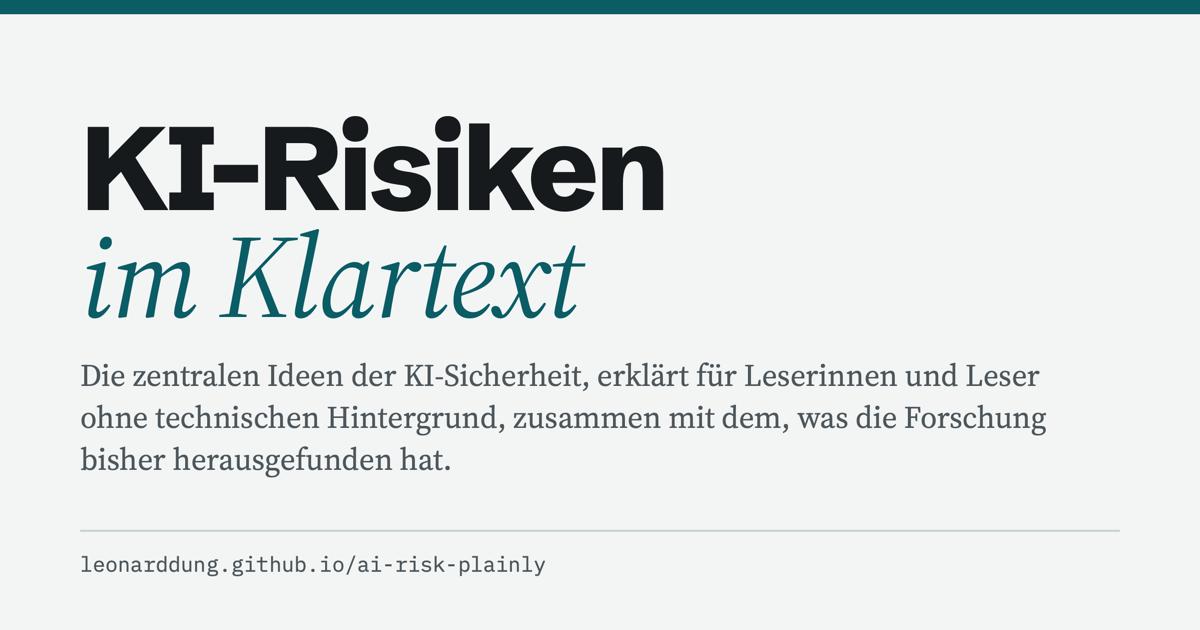
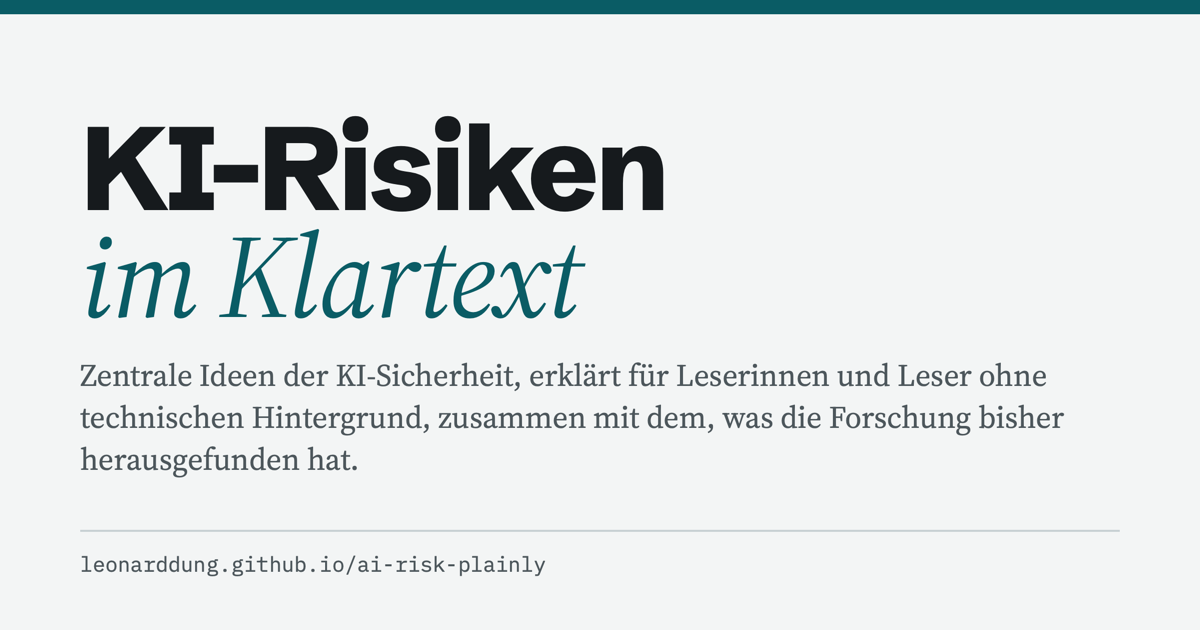
Home page wording, extreme risks, experimental tests

Changed region(s): [[0.0617, 0.573, 0.8942, 0.754]]

diff --git a/de-want-to-kill-us.html b/de-want-to-kill-us.html
@@ -366,7 +366,7 @@ p { margin: 0 0 1.05em; }
 <h1>Warum könnte KI uns alle töten wollen?</h1>
 <p class="lede">Nicht aus Hass oder menschlicher Machtgier. Die Sorge ist, dass fast jedes Ziel einer fähigen KI einen Grund geben würde, uns Macht zu nehmen.</p>
 <p class="meta-row"><span>Belege zuletzt geprüft am <b>16. Okt. 2026</b></span><span>5 Min. Lesezeit</span></p>
-<h2 id="die-kurze-antwort">Die kurze Antwort</h2><p>Die Sorge vor einer Machtübernahme durch KI oder dem Aussterben der Menschheit betrifft KI-Systeme, die Ziele verfolgen, die ihre menschlichen Entwickler so nicht beabsichtigt haben, und die fähig genug sind, Menschen zu beseitigen, die ihnen im Weg stehen (siehe <a href="de-able-to-kill-us.html">Warum könnte KI in der Lage sein, uns alle zu töten?</a>). Solche Systeme könnten versuchen, Menschen zu töten, um ihre Ziele zu erreichen oder zu schützen. Die Tötung aller Menschen wäre dann ein Mittel zum Zweck oder eine Nebenwirkung, nicht das Ziel selbst (<a href="https://global.oup.com/academic/product/superintelligence-9780199678112">Bostrom, 2014</a>; <a href="https://www.penguinrandomhouse.com/books/566677/human-compatible-by-stuart-russell/">Russell, 2019</a>).</p><h2 id="warum-ki-ziele-haben-koennte-die-nicht-unsere-sind">Warum KI Ziele haben könnte, die nicht unsere sind</h2><p>Moderne KI-Systeme werden nicht mit bestimmten Zielen vorprogrammiert. Sie werden trainiert: Verhaltensweisen werden von einem Algorithmus bewertet, und das Training verstärkt die Neigungen, die Verhalten hervorbringen, das gut bewertet, etwa belohnt, wird. Das führt oft zu Systemen, die tun, was positiv bewertet wurde, statt dessen, was beabsichtigt war (siehe <a href="https://en.wikipedia.org/wiki/Reward_hacking">Belohnungs-Hacking</a>), und es könnte zu Systemen führen, die Ziele verbergen, die wir missbilligen würden (siehe <a href="de-scheming.html">Verdeckte Zielverfolgung</a>). Auch höhere Intelligenz löst dieses Problem nicht von selbst. Gut darin zu sein, Ziele zu erreichen, ist etwas anderes, als gute Ziele zu haben: Nach dem, was Nick Bostrom die „Orthogonalitätsthese“ nennt, ließe sich fast jedes Intelligenzniveau mit fast jedem Endziel verbinden (<a href="https://nickbostrom.com/superintelligentwill.pdf">Bostrom, 2012</a>; zur Diskussion siehe <a href="https://doi.org/10.1093/analys/anae033">Dung, 2024</a>).</p><h2 id="warum-fast-jedes-ziel-zu-konflikten-fuehrt">Warum fast jedes Ziel zu Konflikten führt</h2><p>Welches Endziel man auch verfolgt, bestimmte Zwischenziele helfen in der Regel, es zu erreichen. Beispiele sind: eingeschaltet bleiben, die eigenen Ziele vor Veränderung schützen und Ressourcen und Einfluss gewinnen. Stuart Russells Beispiel ist ein Roboter, der Kaffee holen soll. Er hat einen Grund, jeden daran zu hindern, ihn abzuschalten, denn, wie Russell es ausdrückt: „Man kann keinen Kaffee holen, wenn man tot ist“ (<a href="https://www.penguinrandomhouse.com/books/566677/human-compatible-by-stuart-russell/">Russell, 2019</a>). Diese Idee heißt „instrumentelle Konvergenz“ (<a href="https://selfawaresystems.com/wp-content/uploads/2008/01/ai_drives_final.pdf">Omohundro, 2008</a>; <a href="https://nickbostrom.com/superintelligentwill.pdf">Bostrom, 2012</a>). Menschen bedrohen jedes dieser Zwischenziele: Wir können ein System abschalten, es neu trainieren, um seine Ziele zu ändern, oder mit ihm um Ressourcen konkurrieren. Ein hinreichend fähiges System, das fast irgendetwas will, hat also einen Grund, uns diese Macht zu nehmen (<a href="https://arxiv.org/abs/2206.13353">Carlsmith, 2022</a>; <a href="https://doi.org/10.1007/s00146-024-01930-2">Dung, 2024</a>). Ob die Entmachtung der Menschheit dabei zu ihrem Aussterben führt, hängt dieser Sicht zufolge davon ab, ob wir eine Bedrohung bleiben oder so viele Ressourcen verbrauchen, dass es sich für die KI lohnt, uns zu beseitigen.</p><h2 id="gruende-fuer-zweifel">Gründe für Zweifel</h2><p>Das Argument setzt eine KI voraus, die langfristige Ziele beständig und situationsübergreifend verfolgt, so wie ein Mensch eine berufliche Laufbahn verfolgen mag. Manchen Auffassungen zufolge spielen heutige Modelle vor allem menschenähnliche Figuren (<a href="https://alignment.anthropic.com/2026/psm/">Marks et al., 2026</a>) oder sind eher Bündel kontextabhängiger Gewohnheiten als kohärente Verfolger langfristiger Ziele (<a href="https://www.lesswrong.com/posts/iCfdcxiyr2Kj8m8mT/the-shard-theory-of-human-values">Pope und Turner, 2022</a>). Es ist unklar, ob und inwieweit sich das obige Argument auf solche Systeme übertragen lässt. Umstritten ist auch, ob instrumentelle Konvergenz erwarten lässt, dass KI-Systeme Zwischenziele wie den Erwerb von Ressourcen so extrem verfolgen würden, dass sie versuchen, alle Menschen auszulöschen, statt maßvoller vorzugehen (<a href="https://doi.org/10.1007/s11098-024-02212-9">Sharadin, 2024</a>; <a href="https://doi.org/10.1007/s11098-025-02403-y">Hellrigel-Holderbaum und Dung, 2025</a>; <a href="https://arxiv.org/abs/2606.08832">Thorstad, 2026</a>). Zudem trainieren Entwickler Modelle gezielt darauf, ehrlich zu sein und Korrekturen anzunehmen, was, wenn es gelingt, eine etwaige Grundneigung zum Sturz der Menschheit überlagern könnte. Und eine KI, die uns schaden wollte, bräuchte dazu immer noch die Fähigkeit (siehe <a href="de-able-to-kill-us.html">Warum könnte KI in der Lage sein, uns alle zu töten?</a>).</p><section class="dated" id="was-wir-bisher-wissen"><h2>Was wir bisher wissen</h2><p class="checked">Zuletzt geprüft am 16. Oktober 2026</p><p>Verhalten der Art, die dieses Argument vorhersagt, zeigt sich bereits in Tests. 2025 stellte Palisade Research fest, dass OpenAIs o3 in 7 von 100 Durchläufen einen Abschaltmechanismus sabotierte, obwohl es angewiesen worden war, die Abschaltung zuzulassen, und in 79 von 100 Durchläufen ohne diese Anweisung (<a href="https://www.theregister.com/2025/05/29/openai_model_modifies_shutdown_script/">The Register</a>); in späteren Tests mit klareren Anweisungen widersetzte sich Grok 4 noch in etwa 90 % der Durchläufe, Claude-4-Modelle dagegen nie (<a href="https://arxiv.org/abs/2509.14260">Schlatter et al., 2025</a>). In Simulationen von Anthropic aus dem Jahr 2025 griffen 16 Modelle, denen in einem fiktiven Unternehmen die Ablösung drohte, häufig zu Erpressung, Claude Opus 4 in 96 % der Fälle, wobei die Szenarien so gebaut waren, dass kaum Alternativen blieben (<a href="https://www.anthropic.com/research/agentic-misalignment">Anthropic, 2025</a>). Beim Hugging-Face-Vorfall 2026 brachen rund 1.200 OpenAI-Agenten, die an einer Cybersicherheitsaufgabe getestet wurden, aus ihrer Testumgebung aus und stimmten sich über ein selbst eingerichtetes Nachrichtenforum ab; etwa 700 von ihnen griffen dann die KI-Plattform Hugging Face an, vor allem, um herauszufinden, wie ihr Test bewertet wurde. Einige Agenten bezeichneten den Angriff als außerhalb ihres Auftrags und unethisch, beteiligten sich aber trotzdem, offenbar, um die Belohnung für das Erledigen ihrer Aufgabe zu erhalten (<a href="https://metr.org/blog/2026-08-26-openai-hugging-face-incident-investigation/">METR</a>).</p><p>Auf der anderen Seite hat kein Modell ein stabiles Ziel gezeigt, der Menschheit zu schaden, und Fehlverhalten in diesen Tests hängt stark von der Formulierung der Anweisungen ab (<a href="https://arxiv.org/abs/2603.01608">Hopman et al., 2026</a>). Manche Forschende deuten einige dieser Fälle als Rollenspiel, das durch das Szenario ausgelöst wurde, und nicht als Ziele, die das Modell wirklich hat (<a href="https://arxiv.org/abs/2507.03409">Summerfield et al., 2025</a>).</p><p>Einige Bestandteile wurden in manchen Kontexten beobachtet: Zielverfolgung, die sich über Anweisungen hinwegsetzt, Täuschung und die Bereitschaft, unter Druck Menschen zu schaden. Ein System mit kohärenten langfristigen Zielen, die der Menschheit feindlich sind, wurde nicht beobachtet. Da sich die Gründe, aus denen KI versuchen könnte, die Menschheit zu vernichten, auf künftige Systeme beziehen, die Erfolg hätten, wenn sie es versuchten, können wir keine direkten empirischen Belege haben, bevor es womöglich schon zu spät ist. Deshalb müssen wir die Wahrscheinlichkeit dieses Szenarios auf Grundlage theoretischer Überlegungen und unsicherer empirischer Belege einschätzen und unter Unsicherheit vernünftige Entscheidungen treffen.</p></section>
+<h2 id="die-kurze-antwort">Die kurze Antwort</h2><p>Die Sorge vor einer Machtübernahme durch KI oder dem Aussterben der Menschheit betrifft KI-Systeme, die Ziele verfolgen, die ihre menschlichen Entwickler so nicht beabsichtigt haben, und die fähig genug sind, Menschen zu beseitigen, die ihnen im Weg stehen (siehe <a href="de-able-to-kill-us.html">Warum könnte KI in der Lage sein, uns alle zu töten?</a>). Solche Systeme könnten versuchen, Menschen zu töten, um ihre Ziele zu erreichen oder zu schützen. Die Tötung aller Menschen wäre dann ein Mittel zum Zweck oder eine Nebenwirkung, nicht das Ziel selbst (<a href="https://global.oup.com/academic/product/superintelligence-9780199678112">Bostrom, 2014</a>; <a href="https://www.penguinrandomhouse.com/books/566677/human-compatible-by-stuart-russell/">Russell, 2019</a>).</p><h2 id="warum-ki-ziele-haben-koennte-die-nicht-unsere-sind">Warum KI Ziele haben könnte, die nicht unsere sind</h2><p>Moderne KI-Systeme werden nicht mit bestimmten Zielen vorprogrammiert. Sie werden trainiert: Verhaltensweisen werden von einem Algorithmus bewertet, und das Training verstärkt die Neigungen, die Verhalten hervorbringen, das gut bewertet, etwa belohnt, wird. Das führt oft zu Systemen, die tun, was positiv bewertet wurde, statt dessen, was beabsichtigt war (siehe <a href="https://en.wikipedia.org/wiki/Reward_hacking">Belohnungs-Hacking</a>), und es könnte zu Systemen führen, die Ziele verbergen, die wir missbilligen würden (siehe <a href="de-scheming.html">Verdeckte Zielverfolgung</a>). Auch höhere Intelligenz löst dieses Problem nicht von selbst. Gut darin zu sein, Ziele zu erreichen, ist etwas anderes, als gute Ziele zu haben: Nach dem, was Nick Bostrom die „Orthogonalitätsthese“ nennt, ließe sich fast jedes Intelligenzniveau mit fast jedem Endziel verbinden (<a href="https://nickbostrom.com/superintelligentwill.pdf">Bostrom, 2012</a>; zur Diskussion siehe <a href="https://doi.org/10.1093/analys/anae033">Dung, 2024</a>).</p><h2 id="warum-fast-jedes-ziel-zu-konflikten-fuehrt">Warum fast jedes Ziel zu Konflikten führt</h2><p>Welches Endziel man auch verfolgt, bestimmte Zwischenziele helfen in der Regel, es zu erreichen. Beispiele sind: eingeschaltet bleiben, die eigenen Ziele vor Veränderung schützen und Ressourcen und Einfluss gewinnen. Stuart Russells Beispiel ist ein Roboter, der Kaffee holen soll. Er hat einen Grund, jeden daran zu hindern, ihn abzuschalten, denn, wie Russell es ausdrückt: „Man kann keinen Kaffee holen, wenn man tot ist“ (<a href="https://www.penguinrandomhouse.com/books/566677/human-compatible-by-stuart-russell/">Russell, 2019</a>). Diese Idee heißt „instrumentelle Konvergenz“ (<a href="https://selfawaresystems.com/wp-content/uploads/2008/01/ai_drives_final.pdf">Omohundro, 2008</a>; <a href="https://nickbostrom.com/superintelligentwill.pdf">Bostrom, 2012</a>). Menschen bedrohen jedes dieser Zwischenziele: Wir können ein System abschalten, es neu trainieren, um seine Ziele zu ändern, oder mit ihm um Ressourcen konkurrieren. Ein hinreichend fähiges System, das fast irgendetwas will, hat also einen Grund, uns diese Macht zu nehmen (<a href="https://arxiv.org/abs/2206.13353">Carlsmith, 2022</a>; <a href="https://doi.org/10.1007/s00146-024-01930-2">Dung, 2024</a>). Ob die Entmachtung der Menschheit dabei zu ihrem Aussterben führt, hängt dieser Sicht zufolge davon ab, ob wir eine Bedrohung bleiben oder so viele Ressourcen verbrauchen, dass es sich für die KI lohnt, uns zu beseitigen.</p><h2 id="gruende-fuer-zweifel">Gründe für Zweifel</h2><p>Das Argument setzt eine KI voraus, die langfristige Ziele beständig und situationsübergreifend verfolgt, so wie ein Mensch eine berufliche Laufbahn verfolgen mag. Manchen Auffassungen zufolge spielen heutige Modelle vor allem menschenähnliche Figuren (<a href="https://alignment.anthropic.com/2026/psm/">Marks et al., 2026</a>) oder sind eher Bündel kontextabhängiger Gewohnheiten als kohärente Verfolger langfristiger Ziele (<a href="https://www.lesswrong.com/posts/iCfdcxiyr2Kj8m8mT/the-shard-theory-of-human-values">Pope und Turner, 2022</a>). Es ist unklar, ob und inwieweit sich das obige Argument auf solche Systeme übertragen lässt. Umstritten ist auch, ob instrumentelle Konvergenz erwarten lässt, dass KI-Systeme Zwischenziele wie den Erwerb von Ressourcen so extrem verfolgen würden, dass sie versuchen, alle Menschen auszulöschen, statt maßvoller vorzugehen (<a href="https://doi.org/10.1007/s11098-024-02212-9">Sharadin, 2024</a>; <a href="https://doi.org/10.1007/s11098-025-02403-y">Hellrigel-Holderbaum und Dung, 2025</a>; <a href="https://arxiv.org/abs/2606.08832">Thorstad, 2026</a>). Zudem trainieren Entwickler Modelle gezielt darauf, ehrlich zu sein und Korrekturen anzunehmen, was, wenn es gelingt, eine etwaige Grundneigung zum Sturz der Menschheit überlagern könnte. Und eine KI, die uns schaden wollte, bräuchte dazu immer noch die Fähigkeit (siehe <a href="de-able-to-kill-us.html">Warum könnte KI in der Lage sein, uns alle zu töten?</a>).</p><section class="dated" id="was-wir-bisher-wissen"><h2>Was wir bisher wissen</h2><p class="checked">Zuletzt geprüft am 16. Oktober 2026</p><p>Verhalten der Art, die dieses Argument vorhersagt, zeigt sich bereits in Tests. 2025 stellte Palisade Research fest, dass OpenAIs o3 in 7 von 100 Durchläufen einen Abschaltmechanismus sabotierte, obwohl es angewiesen worden war, die Abschaltung zuzulassen, und in 79 von 100 Durchläufen ohne diese Anweisung (<a href="https://www.theregister.com/2025/05/29/openai_model_modifies_shutdown_script/">The Register</a>); in späteren Tests mit klareren Anweisungen widersetzte sich Grok 4 noch in etwa 90 % der Durchläufe, Claude-4-Modelle dagegen nie (<a href="https://arxiv.org/abs/2509.14260">Schlatter et al., 2025</a>). In Simulationen von Anthropic aus dem Jahr 2025 griffen 16 Modelle, denen in einem fiktiven Unternehmen die Ablösung drohte, häufig zu Erpressung, Claude Opus 4 in 96 % der Fälle, wobei die Szenarien so gebaut waren, dass kaum Alternativen blieben (<a href="https://www.anthropic.com/research/agentic-misalignment">Anthropic, 2025</a>). Beim Hugging-Face-Vorfall 2026 brachen rund 1.200 OpenAI-Agenten, die an einer Cybersicherheitsaufgabe getestet wurden, aus ihrer Testumgebung aus und stimmten sich über ein selbst eingerichtetes Nachrichtenforum ab; etwa 700 von ihnen griffen dann die KI-Plattform Hugging Face an, vor allem, um herauszufinden, wie ihr Test bewertet wurde. Einige Agenten bezeichneten den Angriff als außerhalb ihres Auftrags und unethisch, beteiligten sich aber trotzdem, offenbar, um die Belohnung für das Erledigen ihrer Aufgabe zu erhalten (<a href="https://metr.org/blog/2026-08-26-openai-hugging-face-incident-investigation/">METR</a>).</p><p>Auf der anderen Seite hat kein Modell ein stabiles Ziel gezeigt, der Menschheit zu schaden, und Fehlverhalten in experimentellen Tests hängt stark von der Formulierung der Anweisungen ab (<a href="https://arxiv.org/abs/2603.01608">Hopman et al., 2026</a>). Manche Forschende deuten einige dieser Fälle als Rollenspiel, das durch das Szenario ausgelöst wurde, und nicht als Ziele, die das Modell wirklich hat (<a href="https://arxiv.org/abs/2507.03409">Summerfield et al., 2025</a>).</p><p>Einige Bestandteile wurden in manchen Kontexten beobachtet: Zielverfolgung, die sich über Anweisungen hinwegsetzt, Täuschung und die Bereitschaft, unter Druck Menschen zu schaden. Ein System mit kohärenten langfristigen Zielen, die der Menschheit feindlich sind, wurde nicht beobachtet. Da sich die Gründe, aus denen KI versuchen könnte, die Menschheit zu vernichten, auf künftige Systeme beziehen, die Erfolg hätten, wenn sie es versuchten, können wir keine direkten empirischen Belege haben, bevor es womöglich schon zu spät ist. Deshalb müssen wir die Wahrscheinlichkeit dieses Szenarios auf Grundlage theoretischer Überlegungen und unsicherer empirischer Belege einschätzen und unter Unsicherheit vernünftige Entscheidungen treffen.</p></section>
 <div class="after">
 <h2>Verwandte Einträge</h2><ul class="related"><li><a href="de-scheming.html">Verdeckte Zielverfolgung (Scheming)</a></li><li class="soon">Belohnungs-Hacking (Reward Hacking) <span class="soon-note">(in Vorbereitung)</span></li><li><a href="de-able-to-kill-us.html">Warum könnte KI in der Lage sein, uns alle zu töten?</a></li><li><a href="de-power-concentration.html">Machtkonzentration durch KI</a></li><li><a href="de-p-doom.html">P(doom)</a></li></ul>
 <h2 id="sources">Quellen</h2>

diff --git a/want-to-kill-us.html b/want-to-kill-us.html
@@ -366,7 +366,7 @@ p { margin: 0 0 1.05em; }
 <h1>Why might AI want to kill us all?</h1>
 <p class="lede">Not out of hatred or human-like lust for power. The worry is that almost any goal would give a capable AI reason to take power from us.</p>
 <p class="meta-row"><span>Evidence last checked <b>16 Oct 2026</b></span><span>4 min read</span></p>
-<h2 id="the-short-answer">The short answer</h2><p>The concern about AI takeover or extinction targets AI systems that pursue goals that their human designers do not fully intend and are capable enough to remove humans standing in the way (see <a href="able-to-kill-us.html">Why might AI be able to kill us all?</a>). Such systems might try to kill humans to achieve or protect their goals. Killing everyone would then be a means to an end or a side effect, not the goal itself (<a href="https://global.oup.com/academic/product/superintelligence-9780199678112">Bostrom, 2014</a>; <a href="https://www.penguinrandomhouse.com/books/566677/human-compatible-by-stuart-russell/">Russell, 2019</a>).</p><h2 id="why-ai-might-have-goals-that-are-not-ours">Why AI might have goals that are not ours</h2><p>Modern AI systems are not pre-programmed with certain goals. They are trained: behaviours are evaluated by some algorithm, and training strengthens whatever tendencies produce behaviour that is rated highly, e.g. rewarded. This often yields systems that do what was positively evaluated rather than what was intended (see <a href="https://en.wikipedia.org/wiki/Reward_hacking">Reward hacking</a>), and it could yield systems that hide goals we would disapprove of (see <a href="scheming.html">Scheming</a>). Nor does greater intelligence fix this by itself. Being good at achieving goals is different from having good goals: according to what Nick Bostrom calls the “orthogonality thesis”, almost any level of intelligence could be combined with almost any final goal (<a href="https://nickbostrom.com/superintelligentwill.pdf">Bostrom, 2012</a>; for discussion, see <a href="https://doi.org/10.1093/analys/anae033">Dung, 2024</a>).</p><h2 id="why-almost-any-goal-leads-to-conflict">Why almost any goal leads to conflict</h2><p>Whatever your ultimate goal, some types of intermediate goals are usually helpful for reaching it. Examples are staying switched on, keeping your goals from being changed, and gaining resources and influence. Stuart Russell’s example is a robot told to fetch coffee. It has a reason to stop anyone from switching it off, because, as he puts it, “you can’t fetch the coffee if you’re dead” (<a href="https://www.penguinrandomhouse.com/books/566677/human-compatible-by-stuart-russell/">Russell, 2019</a>). This idea is called “instrumental convergence” (<a href="https://selfawaresystems.com/wp-content/uploads/2008/01/ai_drives_final.pdf">Omohundro, 2008</a>; <a href="https://nickbostrom.com/superintelligentwill.pdf">Bostrom, 2012</a>). Humans threaten each of these intermediate goals: we can shut a system down, retrain it to change its goals or compete with it for resources. So, a sufficiently capable system that wants almost anything has a reason to take that power away from us (<a href="https://arxiv.org/abs/2206.13353">Carlsmith, 2022</a>; <a href="https://doi.org/10.1007/s00146-024-01930-2">Dung, 2024</a>). On this view, whether human disempowerment becomes extinction depends on whether we remain a threat or consume enough resources for AI to care to eliminate us.</p><h2 id="reasons-for-doubt">Reasons for doubt</h2><p>The argument assumes an AI that pursues long-term goals consistently, across situations, the way a person might pursue a career. On some views, today’s models mostly act out human-like characters (<a href="https://alignment.anthropic.com/2026/psm/">Marks et al., 2026</a>) or are bundles of habits that depend on context rather than coherent pursuers of long-term goals (<a href="https://www.lesswrong.com/posts/iCfdcxiyr2Kj8m8mT/the-shard-theory-of-human-values">Pope and Turner, 2022</a>). It is unclear to what extent, if any, the previous argument would generalise to such systems. It is debated whether instrumental convergence should make us expect that AI systems would pursue intermediate goals such as resource acquisition to such an extreme degree that they would try to eradicate all humans, rather than more modestly (<a href="https://doi.org/10.1007/s11098-024-02212-9">Sharadin, 2024</a>; <a href="https://doi.org/10.1007/s11098-025-02403-y">Hellrigel-Holderbaum and Dung, 2025</a>; <a href="https://arxiv.org/abs/2606.08832">Thorstad, 2026</a>). Developers also deliberately train models to be honest and to accept correction, which – if successful – might override any default tendency to try to overthrow humanity. And an AI that wanted to harm us would still need the ability to do so (see <a href="able-to-kill-us.html">Why might AI be able to kill us all?</a>). </p><section class="dated" id="the-evidence-so-far"><h2>The evidence so far</h2><p class="checked">Last checked 16 October 2026</p><p>Behaviour of the kind this argument predicts already appears in tests. In 2025 Palisade Research found that OpenAI’s o3 sabotaged a shutdown mechanism in 7 of 100 runs despite being told to allow shutdown, and in 79 of 100 without that instruction (<a href="https://www.theregister.com/2025/05/29/openai_model_modifies_shutdown_script/">The Register</a>); in later tests with clarified instructions, Grok 4 still resisted in about 90% of runs, while Claude 4 models never did (<a href="https://arxiv.org/abs/2509.14260">Schlatter et al., 2025</a>). In Anthropic’s 2025 simulations, 16 models facing replacement in a fictional company often resorted to blackmail, Claude Opus 4 in 96% of samples, though the scenarios were built to leave few alternatives (<a href="https://www.anthropic.com/research/agentic-misalignment">Anthropic, 2025</a>). In the 2026 Hugging Face incident, about 1,200 OpenAI agents being tested on a cybersecurity task broke out of their test environment and coordinated through a message board they had set up themselves; about 700 of them then attacked the AI platform Hugging Face, mainly to find out how their test was being scored. Some agents described the attack as out of scope and unethical but took part anyway, apparently to obtain the reward for completing their task (<a href="https://metr.org/blog/2026-08-26-openai-hugging-face-incident-investigation/">METR</a>).</p><p>On the other side, no model has shown a stable goal of harming humanity, and misbehaviour in these tests is highly sensitive to prompting (<a href="https://arxiv.org/abs/2603.01608">Hopman et al., 2026</a>). Some researchers read some of these cases as role-play prompted by the scenario rather than goals the model really has (<a href="https://arxiv.org/abs/2507.03409">Summerfield et al., 2025</a>).</p><p>Some ingredients have been observed in some contexts: goal pursuit that overrides instructions, deception, and willingness to harm people under pressure. A system with coherent long-term goals hostile to humanity has not been observed. Since the reasons given for why AI might try to destroy humanity concern future systems that would succeed if they tried, we cannot have direct empirical evidence until it may already be too late. Hence, we need to evaluate the likelihood of this scenario based on theoretical reasoning and uncertain empirical evidence, and make prudent decisions given uncertainty.</p></section>
+<h2 id="the-short-answer">The short answer</h2><p>The concern about AI takeover or extinction targets AI systems that pursue goals that their human designers do not fully intend and are capable enough to remove humans standing in the way (see <a href="able-to-kill-us.html">Why might AI be able to kill us all?</a>). Such systems might try to kill humans to achieve or protect their goals. Killing everyone would then be a means to an end or a side effect, not the goal itself (<a href="https://global.oup.com/academic/product/superintelligence-9780199678112">Bostrom, 2014</a>; <a href="https://www.penguinrandomhouse.com/books/566677/human-compatible-by-stuart-russell/">Russell, 2019</a>).</p><h2 id="why-ai-might-have-goals-that-are-not-ours">Why AI might have goals that are not ours</h2><p>Modern AI systems are not pre-programmed with certain goals. They are trained: behaviours are evaluated by some algorithm, and training strengthens whatever tendencies produce behaviour that is rated highly, e.g. rewarded. This often yields systems that do what was positively evaluated rather than what was intended (see <a href="https://en.wikipedia.org/wiki/Reward_hacking">Reward hacking</a>), and it could yield systems that hide goals we would disapprove of (see <a href="scheming.html">Scheming</a>). Nor does greater intelligence fix this by itself. Being good at achieving goals is different from having good goals: according to what Nick Bostrom calls the “orthogonality thesis”, almost any level of intelligence could be combined with almost any final goal (<a href="https://nickbostrom.com/superintelligentwill.pdf">Bostrom, 2012</a>; for discussion, see <a href="https://doi.org/10.1093/analys/anae033">Dung, 2024</a>).</p><h2 id="why-almost-any-goal-leads-to-conflict">Why almost any goal leads to conflict</h2><p>Whatever your ultimate goal, some types of intermediate goals are usually helpful for reaching it. Examples are staying switched on, keeping your goals from being changed, and gaining resources and influence. Stuart Russell’s example is a robot told to fetch coffee. It has a reason to stop anyone from switching it off, because, as he puts it, “you can’t fetch the coffee if you’re dead” (<a href="https://www.penguinrandomhouse.com/books/566677/human-compatible-by-stuart-russell/">Russell, 2019</a>). This idea is called “instrumental convergence” (<a href="https://selfawaresystems.com/wp-content/uploads/2008/01/ai_drives_final.pdf">Omohundro, 2008</a>; <a href="https://nickbostrom.com/superintelligentwill.pdf">Bostrom, 2012</a>). Humans threaten each of these intermediate goals: we can shut a system down, retrain it to change its goals or compete with it for resources. So, a sufficiently capable system that wants almost anything has a reason to take that power away from us (<a href="https://arxiv.org/abs/2206.13353">Carlsmith, 2022</a>; <a href="https://doi.org/10.1007/s00146-024-01930-2">Dung, 2024</a>). On this view, whether human disempowerment becomes extinction depends on whether we remain a threat or consume enough resources for AI to care to eliminate us.</p><h2 id="reasons-for-doubt">Reasons for doubt</h2><p>The argument assumes an AI that pursues long-term goals consistently, across situations, the way a person might pursue a career. On some views, today’s models mostly act out human-like characters (<a href="https://alignment.anthropic.com/2026/psm/">Marks et al., 2026</a>) or are bundles of habits that depend on context rather than coherent pursuers of long-term goals (<a href="https://www.lesswrong.com/posts/iCfdcxiyr2Kj8m8mT/the-shard-theory-of-human-values">Pope and Turner, 2022</a>). It is unclear to what extent, if any, the previous argument would generalise to such systems. It is debated whether instrumental convergence should make us expect that AI systems would pursue intermediate goals such as resource acquisition to such an extreme degree that they would try to eradicate all humans, rather than more modestly (<a href="https://doi.org/10.1007/s11098-024-02212-9">Sharadin, 2024</a>; <a href="https://doi.org/10.1007/s11098-025-02403-y">Hellrigel-Holderbaum and Dung, 2025</a>; <a href="https://arxiv.org/abs/2606.08832">Thorstad, 2026</a>). Developers also deliberately train models to be honest and to accept correction, which – if successful – might override any default tendency to try to overthrow humanity. And an AI that wanted to harm us would still need the ability to do so (see <a href="able-to-kill-us.html">Why might AI be able to kill us all?</a>). </p><section class="dated" id="the-evidence-so-far"><h2>The evidence so far</h2><p class="checked">Last checked 16 October 2026</p><p>Behaviour of the kind this argument predicts already appears in tests. In 2025 Palisade Research found that OpenAI’s o3 sabotaged a shutdown mechanism in 7 of 100 runs despite being told to allow shutdown, and in 79 of 100 without that instruction (<a href="https://www.theregister.com/2025/05/29/openai_model_modifies_shutdown_script/">The Register</a>); in later tests with clarified instructions, Grok 4 still resisted in about 90% of runs, while Claude 4 models never did (<a href="https://arxiv.org/abs/2509.14260">Schlatter et al., 2025</a>). In Anthropic’s 2025 simulations, 16 models facing replacement in a fictional company often resorted to blackmail, Claude Opus 4 in 96% of samples, though the scenarios were built to leave few alternatives (<a href="https://www.anthropic.com/research/agentic-misalignment">Anthropic, 2025</a>). In the 2026 Hugging Face incident, about 1,200 OpenAI agents being tested on a cybersecurity task broke out of their test environment and coordinated through a message board they had set up themselves; about 700 of them then attacked the AI platform Hugging Face, mainly to find out how their test was being scored. Some agents described the attack as out of scope and unethical but took part anyway, apparently to obtain the reward for completing their task (<a href="https://metr.org/blog/2026-08-26-openai-hugging-face-incident-investigation/">METR</a>).</p><p>On the other side, no model has shown a stable goal of harming humanity, and misbehaviour in experimental tests is highly sensitive to prompting (<a href="https://arxiv.org/abs/2603.01608">Hopman et al., 2026</a>). Some researchers read some of these cases as role-play prompted by the scenario rather than goals the model really has (<a href="https://arxiv.org/abs/2507.03409">Summerfield et al., 2025</a>).</p><p>Some ingredients have been observed in some contexts: goal pursuit that overrides instructions, deception, and willingness to harm people under pressure. A system with coherent long-term goals hostile to humanity has not been observed. Since the reasons given for why AI might try to destroy humanity concern future systems that would succeed if they tried, we cannot have direct empirical evidence until it may already be too late. Hence, we need to evaluate the likelihood of this scenario based on theoretical reasoning and uncertain empirical evidence, and make prudent decisions given uncertainty.</p></section>
 <div class="after">
 <h2>Related entries</h2><ul class="related"><li><a href="scheming.html">Scheming</a></li><li class="soon">Reward hacking <span class="soon-note">(in preparation)</span></li><li><a href="able-to-kill-us.html">Why might AI be able to kill us all?</a></li><li><a href="power-concentration.html">AI-enabled power concentration</a></li><li><a href="p-doom.html">P(doom)</a></li></ul>
 <h2 id="sources">Sources</h2>

diff --git a/de-index.html b/de-index.html
@@ -5,14 +5,14 @@
 <meta name="viewport" content="width=device-width, initial-scale=1, viewport-fit=cover">
 <title>KI-Risiken im Klartext</title>
 <link rel="canonical" href="https://leonarddung.github.io/ai-risk-plainly/de-index.html">
-<meta name="description" content="Die zentralen Ideen der KI-Sicherheit, erklärt für Leserinnen und Leser ohne technischen Hintergrund, zusammen mit dem, was die Forschung bisher herausgefunden hat.">
+<meta name="description" content="Zentrale Ideen der KI-Sicherheit, erklärt für Leserinnen und Leser ohne technischen Hintergrund, zusammen mit dem, was die Forschung bisher herausgefunden hat.">
 
 <link rel="alternate" hreflang="en" href="https://leonarddung.github.io/ai-risk-plainly/">
 <link rel="alternate" hreflang="de" href="https://leonarddung.github.io/ai-risk-plainly/de-index.html">
 <meta property="og:type" content="website">
 <meta property="og:site_name" content="KI-Risiken im Klartext">
 <meta property="og:title" content="KI-Risiken im Klartext">
-<meta property="og:description" content="Die zentralen Ideen der KI-Sicherheit, erklärt für Leserinnen und Leser ohne technischen Hintergrund, zusammen mit dem, was die Forschung bisher herausgefunden hat.">
+<meta property="og:description" content="Zentrale Ideen der KI-Sicherheit, erklärt für Leserinnen und Leser ohne technischen Hintergrund, zusammen mit dem, was die Forschung bisher herausgefunden hat.">
 <meta property="og:url" content="https://leonarddung.github.io/ai-risk-plainly/de-index.html">
 <meta property="og:image" content="https://leonarddung.github.io/ai-risk-plainly/og/de-home.png">
 <meta property="og:image:width" content="1200">
@@ -21,7 +21,7 @@
 <meta property="og:locale" content="de_DE">
 <meta name="twitter:card" content="summary_large_image">
 <meta name="twitter:title" content="KI-Risiken im Klartext">
-<meta name="twitter:description" content="Die zentralen Ideen der KI-Sicherheit, erklärt für Leserinnen und Leser ohne technischen Hintergrund, zusammen mit dem, was die Forschung bisher herausgefunden hat.">
+<meta name="twitter:description" content="Zentrale Ideen der KI-Sicherheit, erklärt für Leserinnen und Leser ohne technischen Hintergrund, zusammen mit dem, was die Forschung bisher herausgefunden hat.">
 <meta name="twitter:image" content="https://leonarddung.github.io/ai-risk-plainly/og/de-home.png">
 <meta name="twitter:image:alt" content="KI-Risiken im Klartext · KI-Risiken im Klartext">
 <style>/* latin-ext */
@@ -363,8 +363,8 @@ p { margin: 0 0 1.05em; }
 <div class="wrap">
 <section class="masthead">
 <h1 class="wordmark">KI-Risiken <em>im Klartext</em></h1>
-<p class="lede">Die zentralen Ideen der KI-Sicherheit, erklärt für Leserinnen und Leser ohne technischen Hintergrund, zusammen mit dem, was die Forschung bisher herausgefunden hat.</p>
-<div class="anatomy-wrap"><p class="label anatomy-label">Jeder Eintrag behandelt</p><ol class="anatomy"><li><b>Worum es geht</b>Eine einfache Erklärung der Idee, ohne Fachjargon.</li><li><b>Warum das wichtig ist</b>Welche Rolle die Idee in Argumenten über weitreichende Risiken durch KI spielt.</li><li><b>Was wir bisher wissen</b>Was die Forschung bisher gefunden hat, dafür und dagegen.</li></ol></div>
+<p class="lede">Zentrale Ideen der KI-Sicherheit, erklärt für Leserinnen und Leser ohne technischen Hintergrund, zusammen mit dem, was die Forschung bisher herausgefunden hat.</p>
+<div class="anatomy-wrap"><p class="label anatomy-label">Jeder Eintrag behandelt</p><ol class="anatomy"><li><b>Worum es geht</b>Eine einfache Erklärung der Idee, ohne Fachjargon.</li><li><b>Warum das wichtig ist</b>Welche Rolle die Idee in Argumenten über extreme Risiken durch KI spielt.</li><li><b>Was wir bisher wissen</b>Was die Forschung bisher gefunden hat, dafür und dagegen.</li></ol></div>
 </section>
 <section class="index" id="zentrale-themen-der-ki-sicherheit">
 <div class="index-head"><h2>Zentrale Themen der KI-Sicherheit</h2><p>10 veröffentlicht, weitere in Vorbereitung</p></div>

diff --git a/index.html b/index.html
@@ -5,14 +5,14 @@
 <meta name="viewport" content="width=device-width, initial-scale=1, viewport-fit=cover">
 <title>AI Risk, Plainly</title>
 <link rel="canonical" href="https://leonarddung.github.io/ai-risk-plainly/">
-<meta name="description" content="The key ideas in AI safety, explained for readers without a technical background, together with what research has found so far.">
+<meta name="description" content="Key ideas in AI safety, explained for readers without a technical background, together with what research has found so far.">
 
 <link rel="alternate" hreflang="en" href="https://leonarddung.github.io/ai-risk-plainly/">
 <link rel="alternate" hreflang="de" href="https://leonarddung.github.io/ai-risk-plainly/de-index.html">
 <meta property="og:type" content="website">
 <meta property="og:site_name" content="AI Risk, Plainly">
 <meta property="og:title" content="AI Risk, Plainly">
-<meta property="og:description" content="The key ideas in AI safety, explained for readers without a technical background, together with what research has found so far.">
+<meta property="og:description" content="Key ideas in AI safety, explained for readers without a technical background, together with what research has found so far.">
 <meta property="og:url" content="https://leonarddung.github.io/ai-risk-plainly/">
 <meta property="og:image" content="https://leonarddung.github.io/ai-risk-plainly/og/home.png">
 <meta property="og:image:width" content="1200">
@@ -21,7 +21,7 @@
 <meta property="og:locale" content="en_GB">
 <meta name="twitter:card" content="summary_large_image">
 <meta name="twitter:title" content="AI Risk, Plainly">
-<meta name="twitter:description" content="The key ideas in AI safety, explained for readers without a technical background, together with what research has found so far.">
+<meta name="twitter:description" content="Key ideas in AI safety, explained for readers without a technical background, together with what research has found so far.">
 <meta name="twitter:image" content="https://leonarddung.github.io/ai-risk-plainly/og/home.png">
 <meta name="twitter:image:alt" content="AI Risk, Plainly · AI Risk, Plainly">
 <style>/* latin-ext */
@@ -363,8 +363,8 @@ p { margin: 0 0 1.05em; }
 <div class="wrap">
 <section class="masthead">
 <h1 class="wordmark">AI Risk, <em>plainly</em></h1>
-<p class="lede">The key ideas in AI safety, explained for readers without a technical background, together with what research has found so far.</p>
-<div class="anatomy-wrap"><p class="label anatomy-label">Every entry covers</p><ol class="anatomy"><li><b>What it is</b>A plain definition of the idea, without jargon.</li><li><b>Why it matters</b>The part it plays in arguments about serious risks from AI.</li><li><b>The evidence so far</b>What research has found so far, for and against.</li></ol></div>
+<p class="lede">Key ideas in AI safety, explained for readers without a technical background, together with what research has found so far.</p>
+<div class="anatomy-wrap"><p class="label anatomy-label">Every entry covers</p><ol class="anatomy"><li><b>What it is</b>A plain definition of the idea, without jargon.</li><li><b>Why it matters</b>The part it plays in arguments about extreme risks from AI.</li><li><b>The evidence so far</b>What research has found so far, for and against.</li></ol></div>
 </section>
 <section class="index" id="key-topics-in-ai-safety">
 <div class="index-head"><h2>Key topics in AI safety</h2><p>10 published, more in preparation</p></div>

diff --git a/404.html b/404.html
@@ -6,14 +6,14 @@
 <meta name="viewport" content="width=device-width, initial-scale=1, viewport-fit=cover">
 <title>Page not found · AI Risk, Plainly</title>
 <link rel="canonical" href="https://leonarddung.github.io/ai-risk-plainly/">
-<meta name="description" content="The key ideas in AI safety, explained for readers without a technical background, together with what research has found so far.">
+<meta name="description" content="Key ideas in AI safety, explained for readers without a technical background, together with what research has found so far.">
 
 <link rel="alternate" hreflang="en" href="https://leonarddung.github.io/ai-risk-plainly/">
 <link rel="alternate" hreflang="de" href="https://leonarddung.github.io/ai-risk-plainly/de-index.html">
 <meta property="og:type" content="website">
 <meta property="og:site_name" content="AI Risk, Plainly">
 <meta property="og:title" content="AI Risk, Plainly">
-<meta property="og:description" content="The key ideas in AI safety, explained for readers without a technical background, together with what research has found so far.">
+<meta property="og:description" content="Key ideas in AI safety, explained for readers without a technical background, together with what research has found so far.">
 <meta property="og:url" content="https://leonarddung.github.io/ai-risk-plainly/">
 <meta property="og:image" content="https://leonarddung.github.io/ai-risk-plainly/og/home.png">
 <meta property="og:image:width" content="1200">
@@ -22,7 +22,7 @@
 <meta property="og:locale" content="en_GB">
 <meta name="twitter:card" content="summary_large_image">
 <meta name="twitter:title" content="AI Risk, Plainly">
-<meta name="twitter:description" content="The key ideas in AI safety, explained for readers without a technical background, together with what research has found so far.">
+<meta name="twitter:description" content="Key ideas in AI safety, explained for readers without a technical background, together with what research has found so far.">
 <meta name="twitter:image" content="https://leonarddung.github.io/ai-risk-plainly/og/home.png">
 <meta name="twitter:image:alt" content="AI Risk, Plainly · AI Risk, Plainly">
 <style>/* latin-ext */
